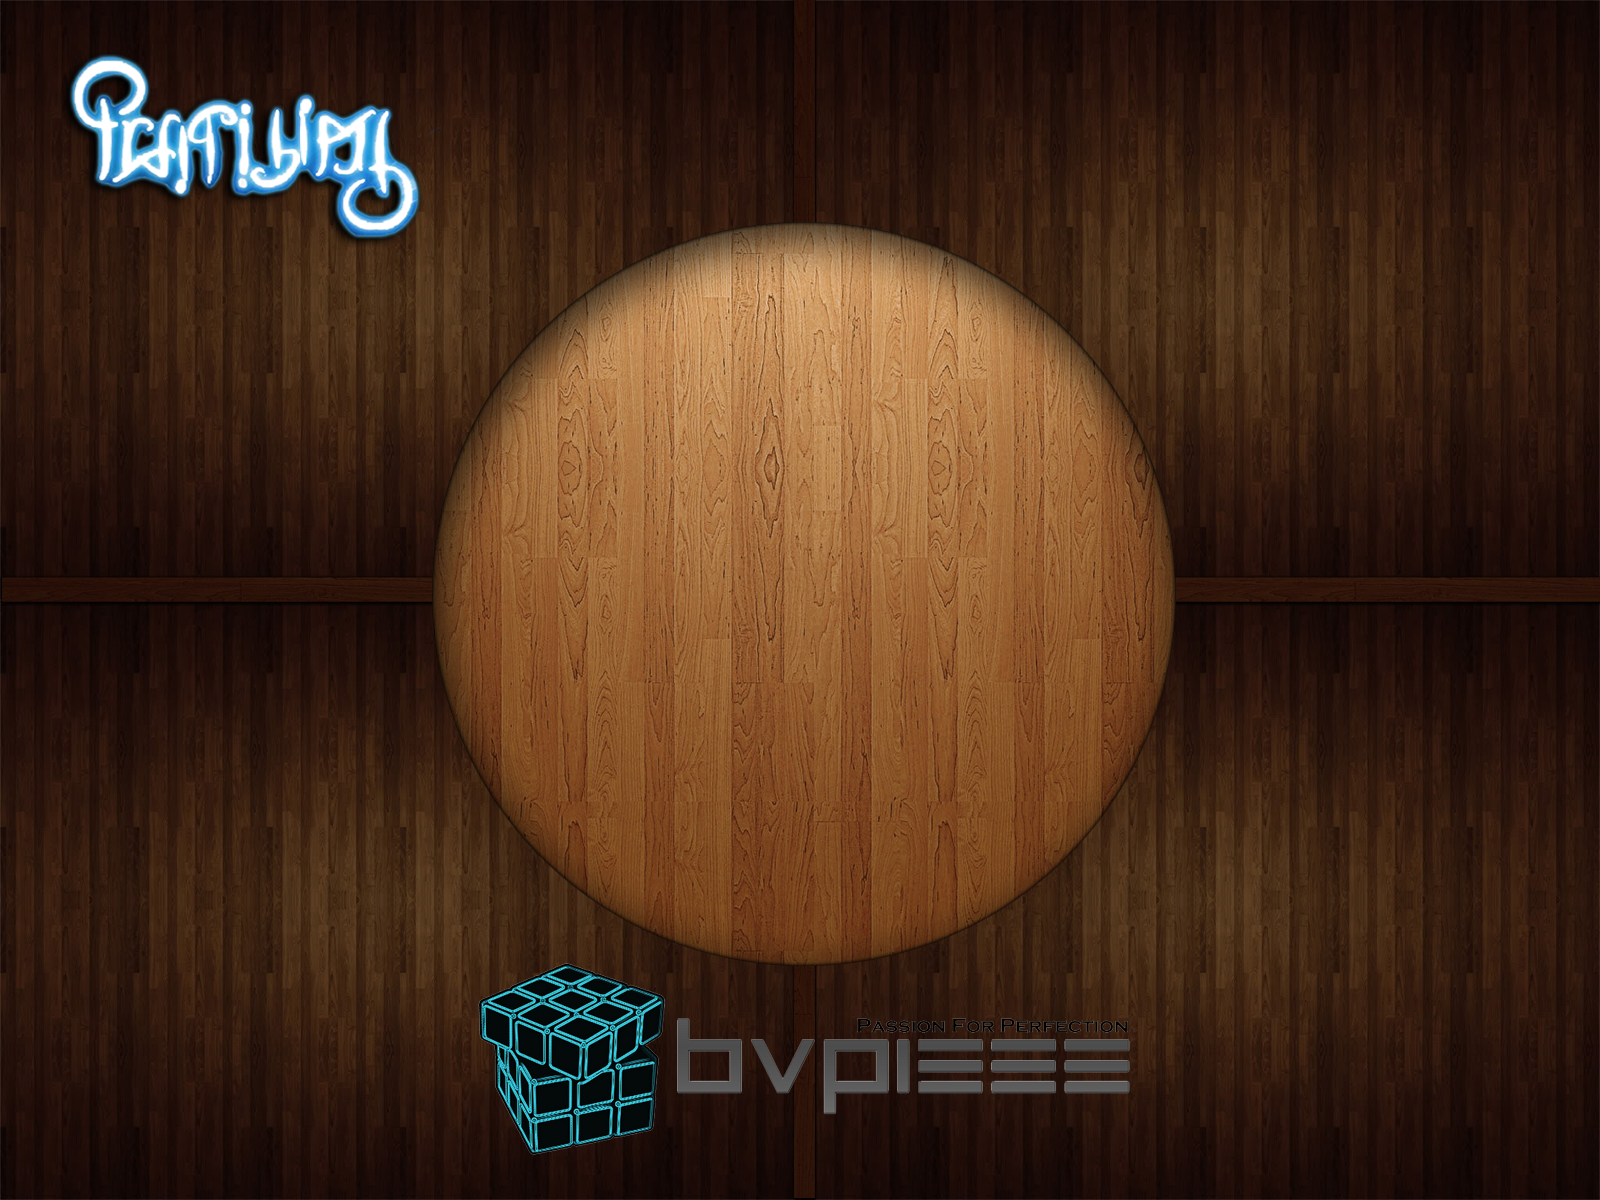
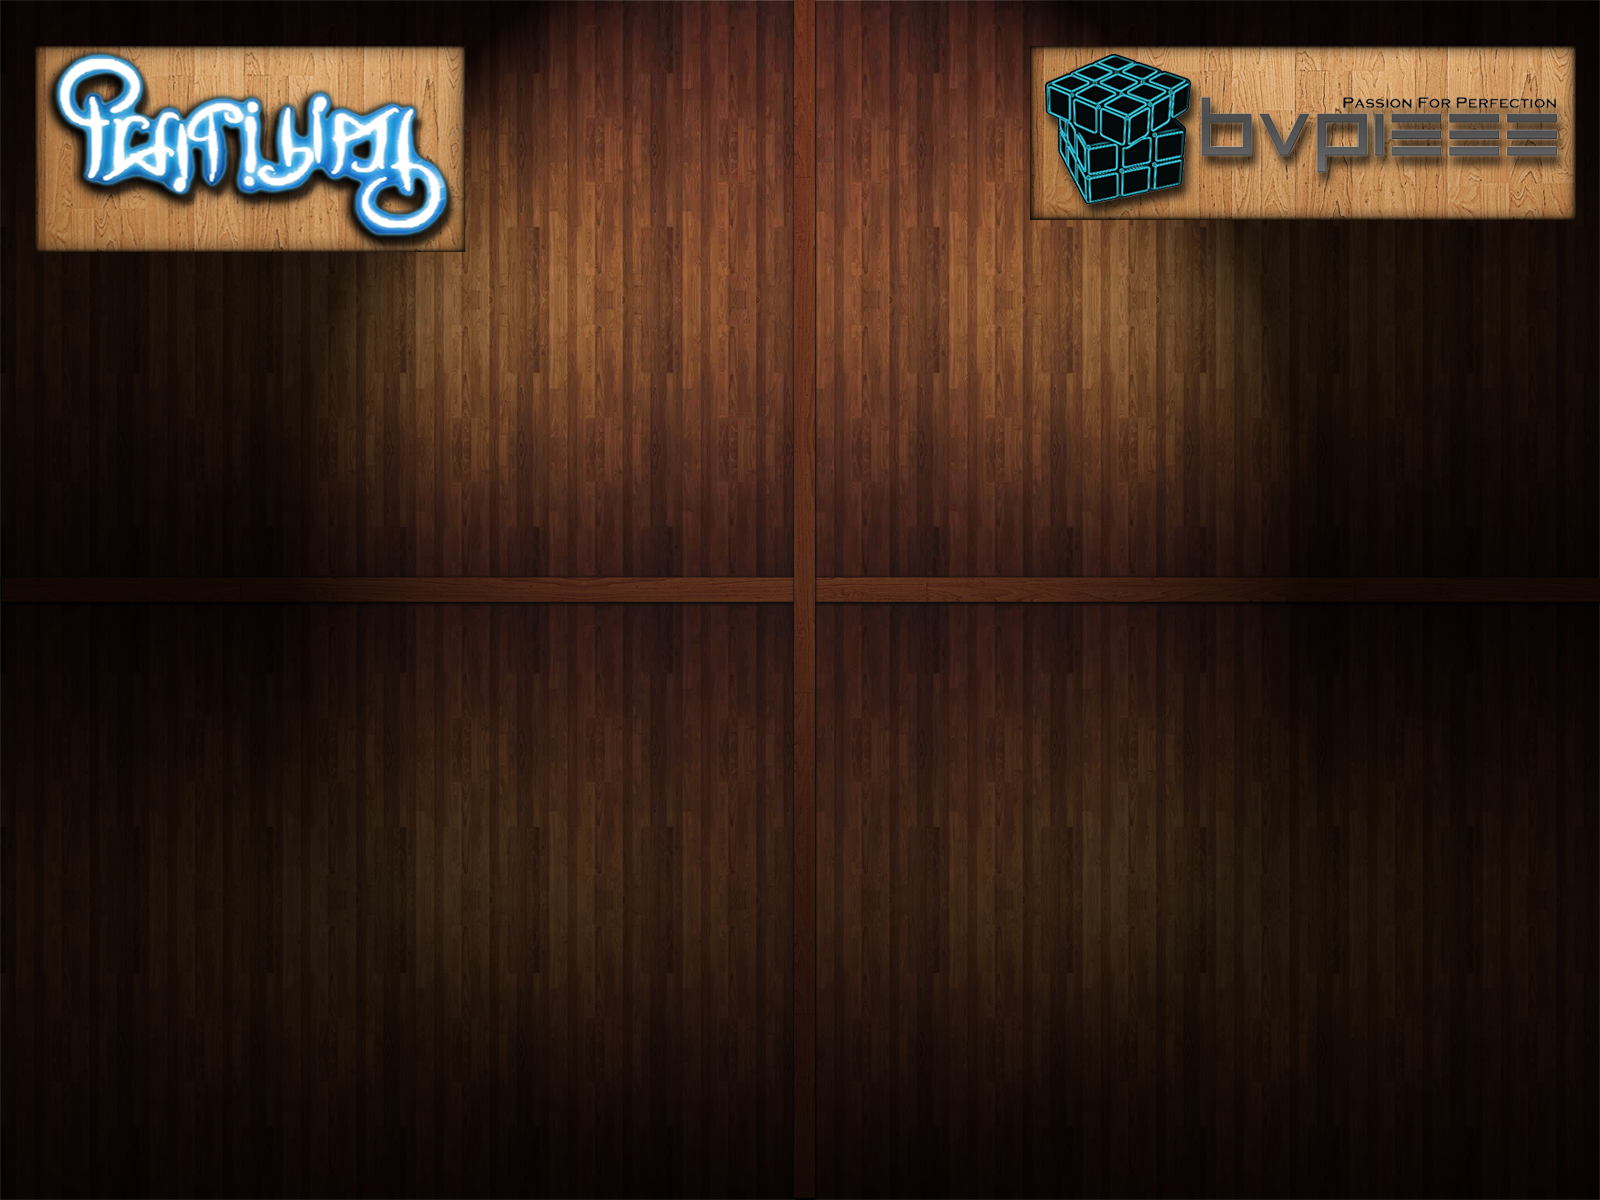
Index bg completed

diff --git a/booklet/demo.css b/booklet/demo.css
@@ -32,9 +32,10 @@
 
 body{
 	font-family: 'Open Sans Condensed','Arial Narrow', serif;
-	background-image: url(../booklet/images/final.png);
-	background-size:1400px 1050px;
-	background-repeat:no-repeat;
+	background-image: url(../booklet/images/final.png); 
+	-webkit-background-size: cover;
+	-moz-background-size: cover;
+	background-size: cover;
 	font-weight: 400;
 	font-size: 15px;
 	color: #333;
